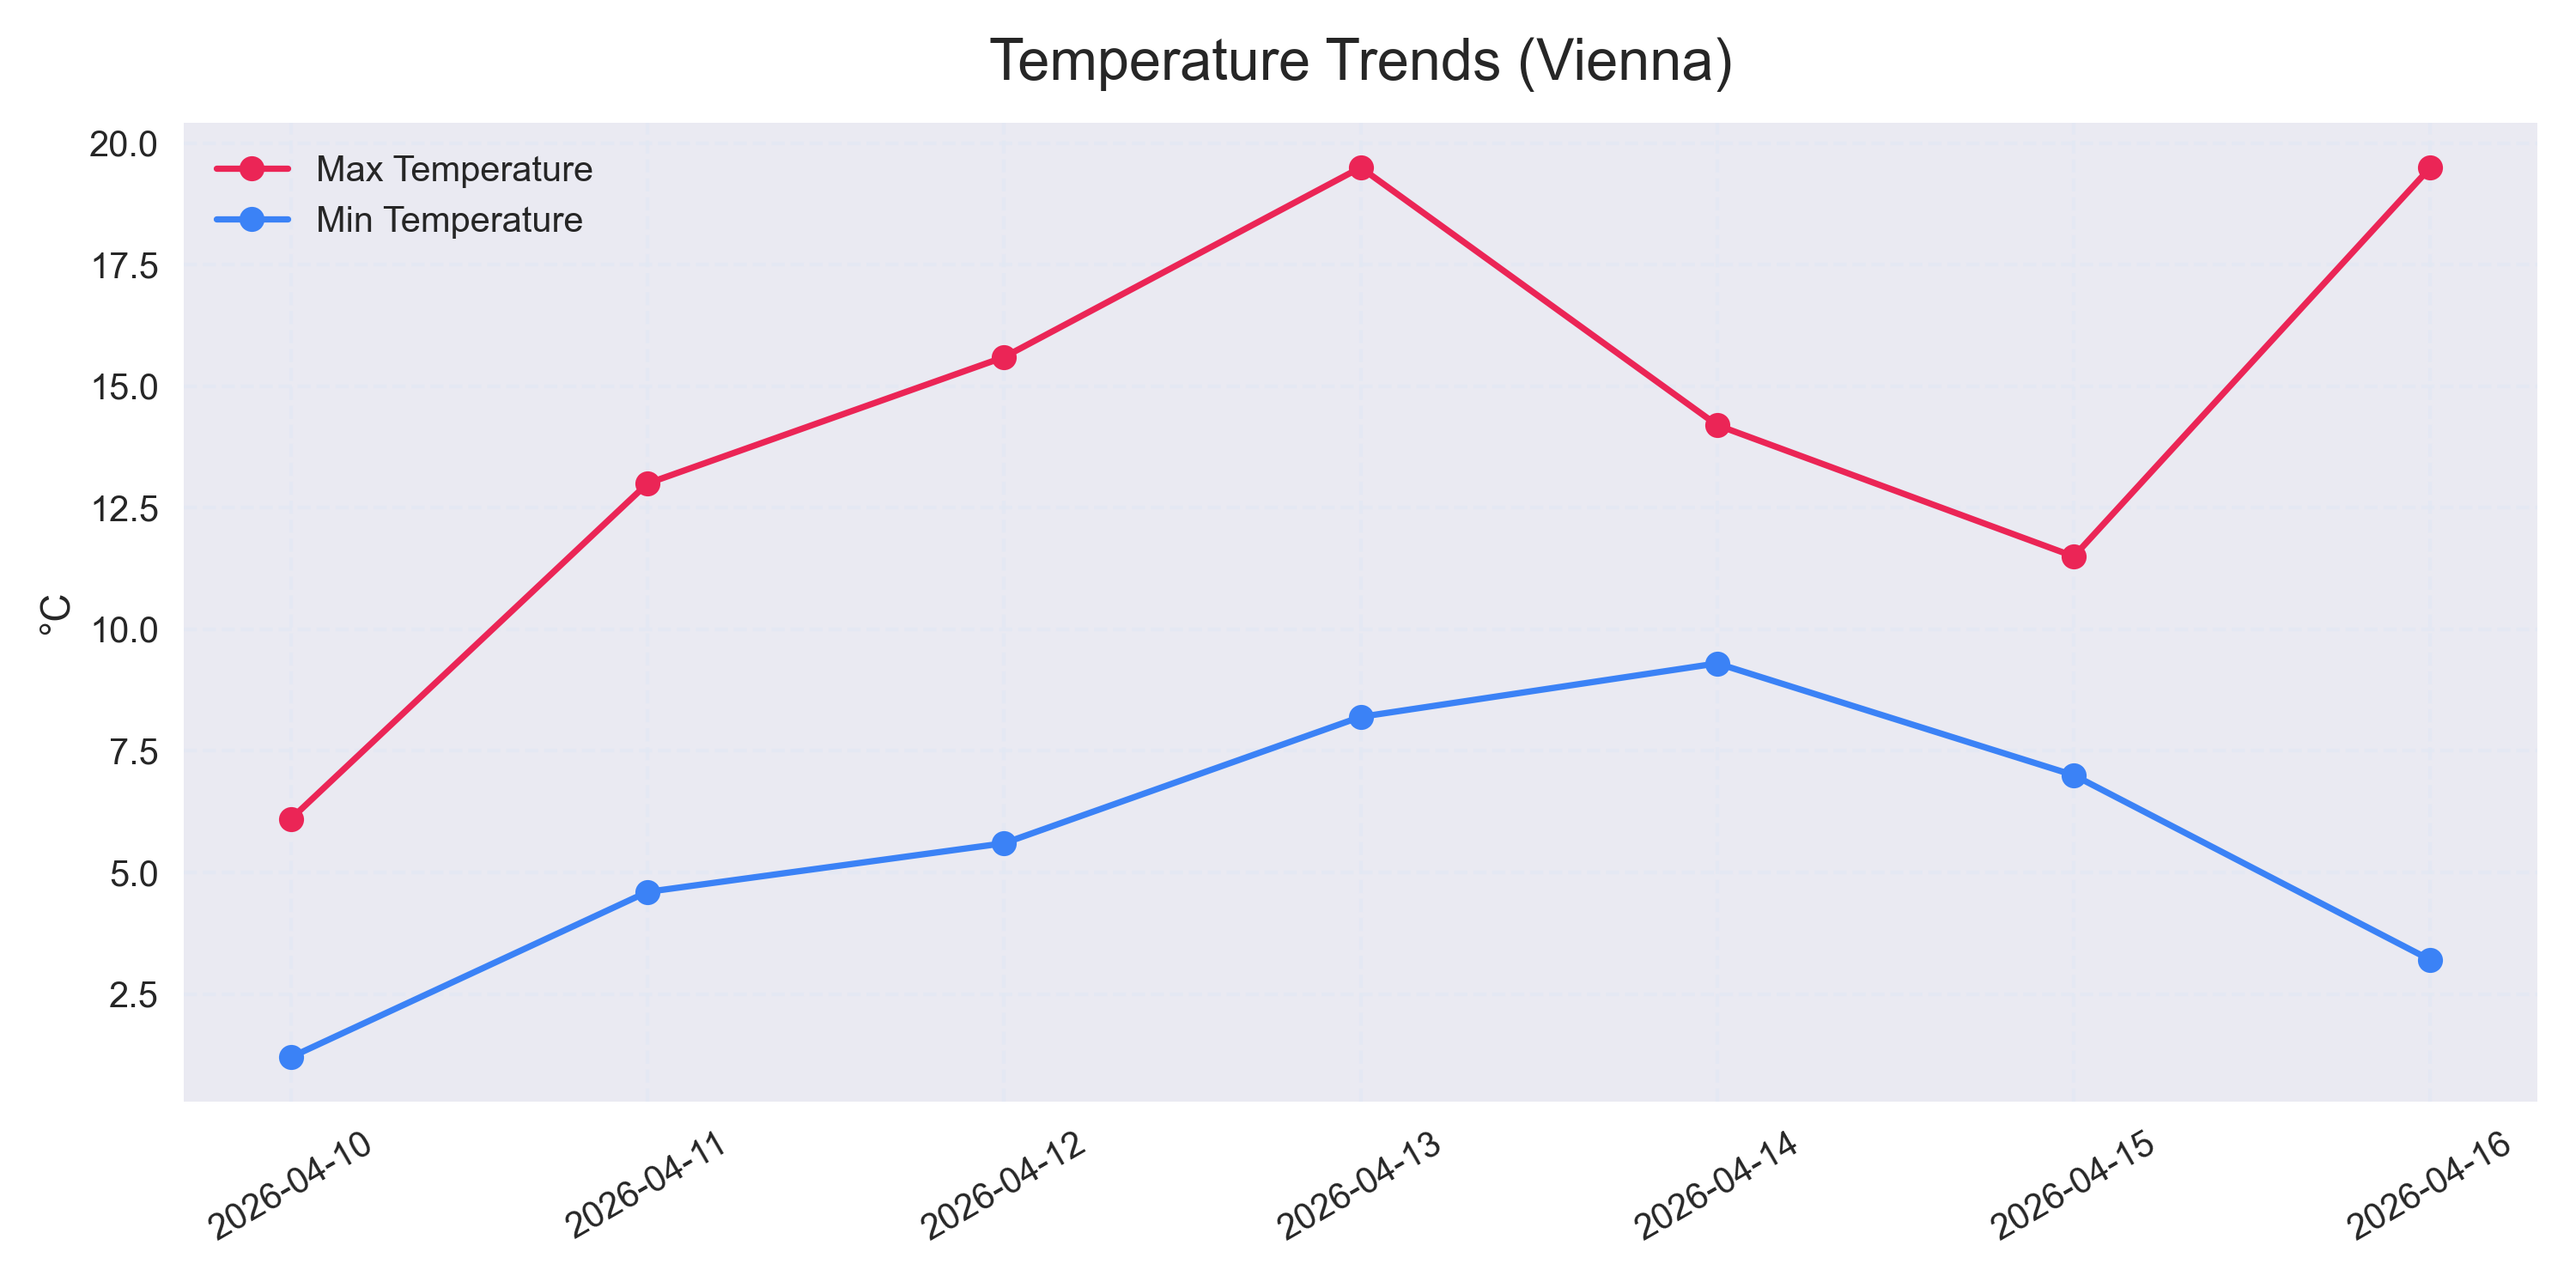
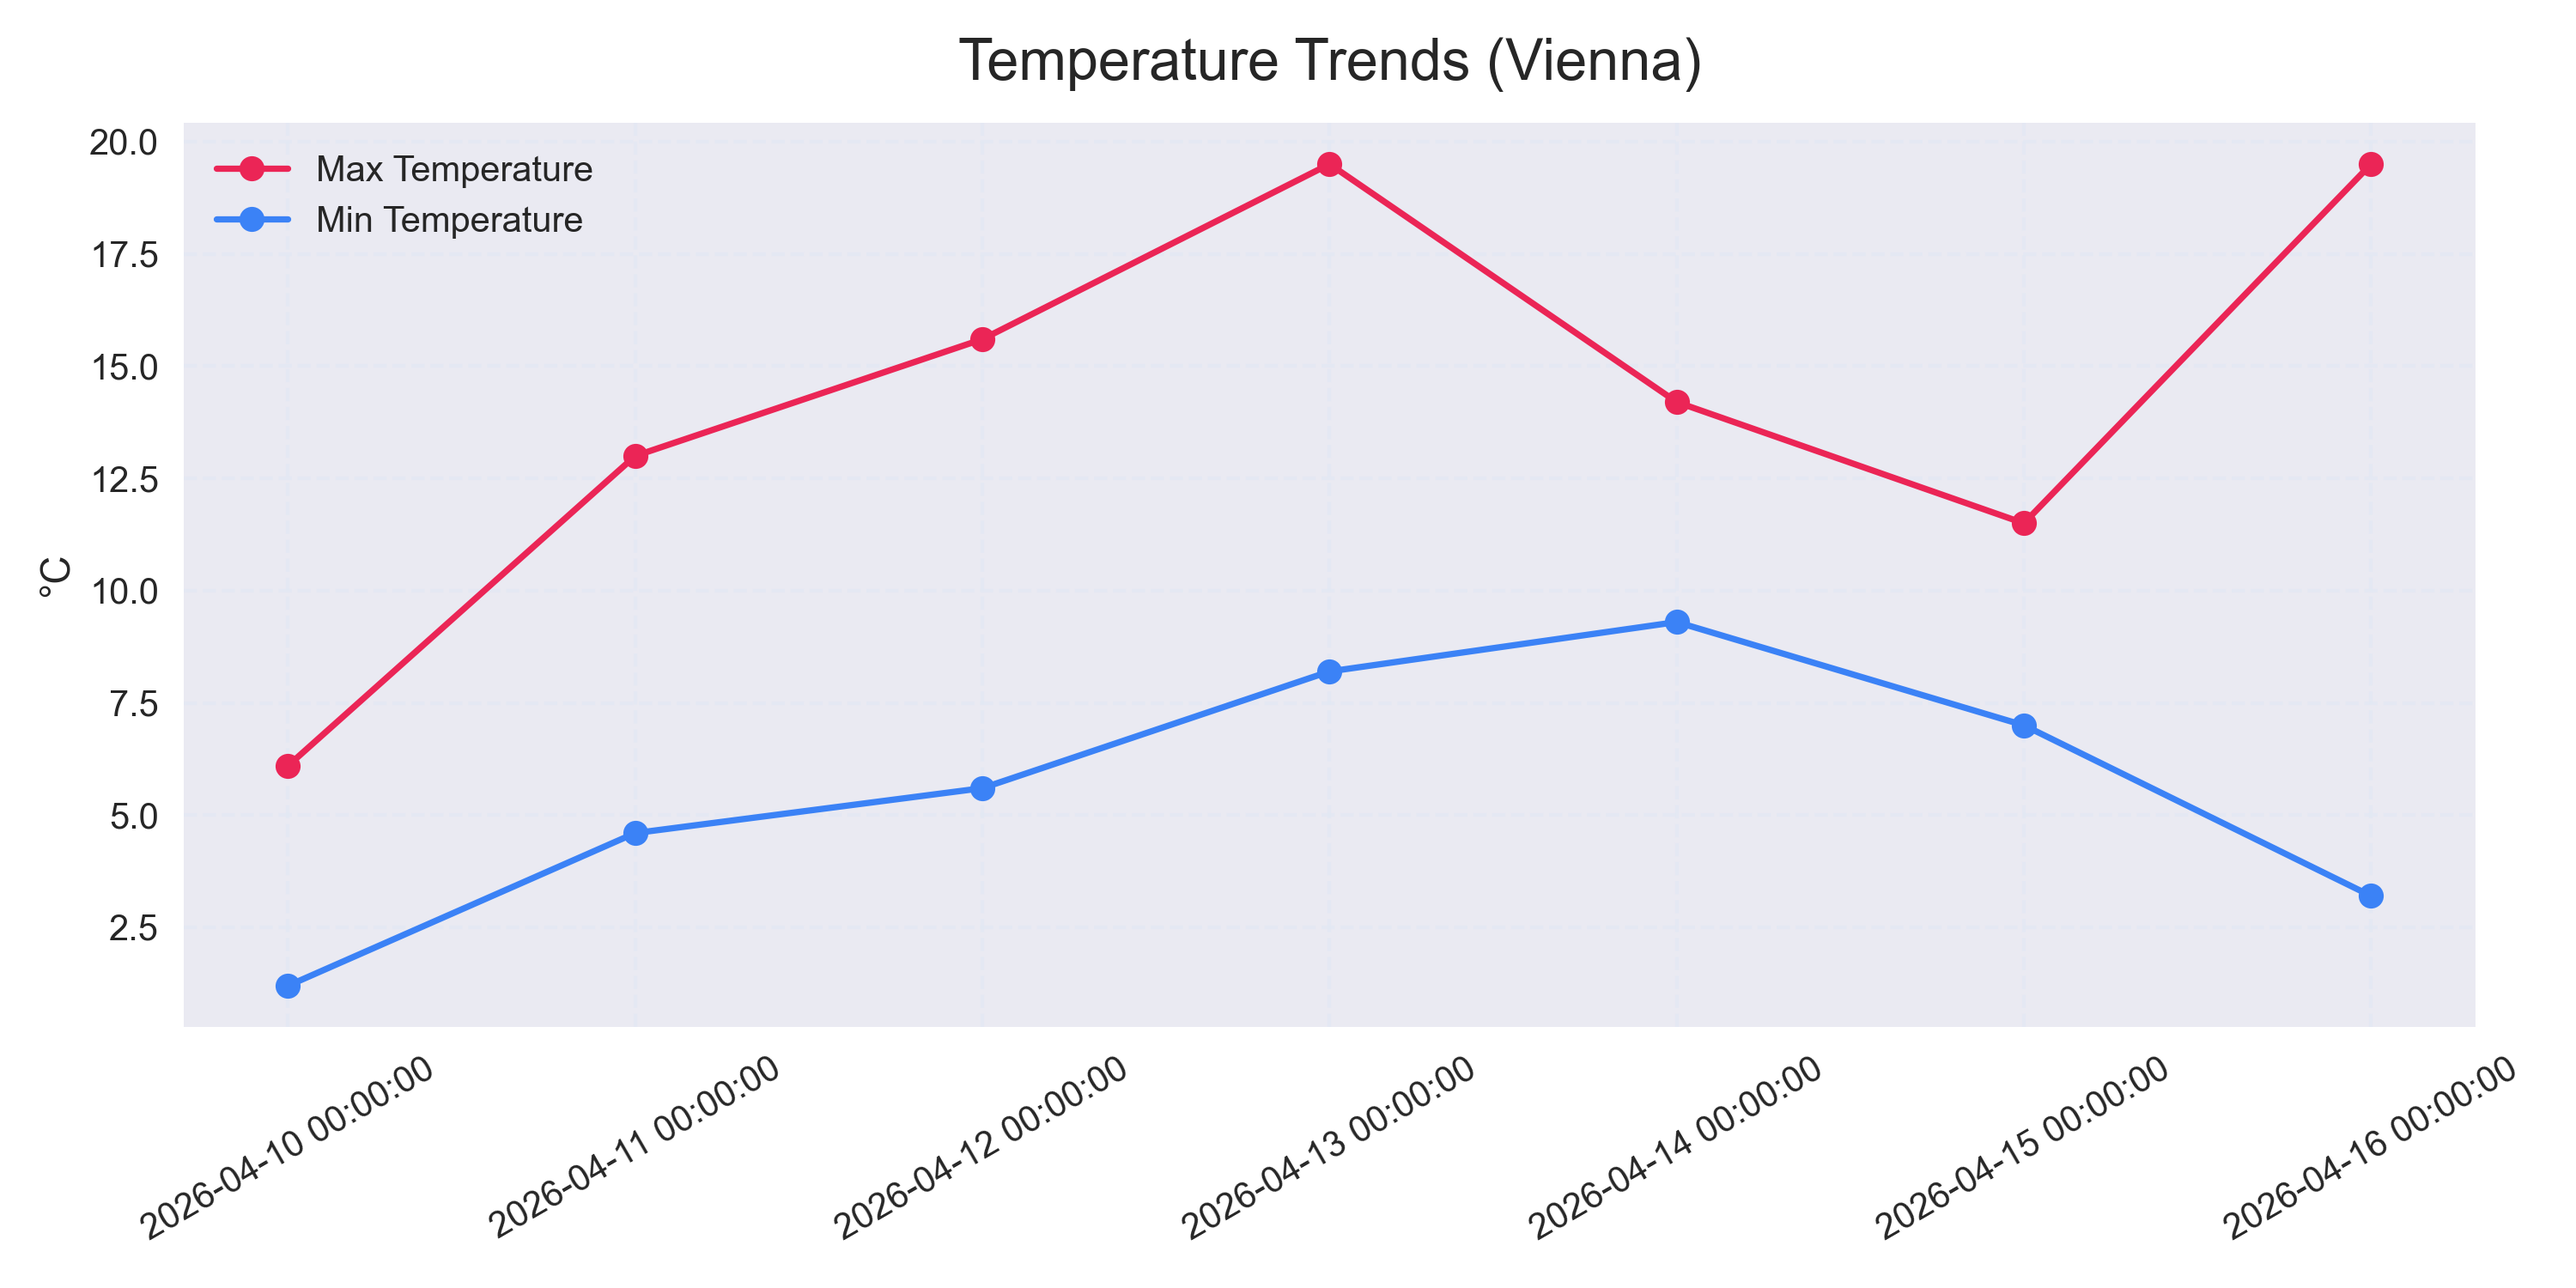
Refactor analysis functions to use DataFrame

diff --git a/main.py b/main.py
@@ -1,23 +1,24 @@
 from src.data_loader import fetch_weather_data, parse_weather_data
 from src.analysis import calculate_average_temp, find_hottest_day, find_coldest_day
-from src.visualization import plot_weather
+from src.visualization import plot_weather, plot_precipitation
 
 
 def main():
     data = fetch_weather_data()
-    dates, temp_max, temp_min, precipitation = parse_weather_data(data)
+    df = parse_weather_data(data)
 
-    avg_temp = round(calculate_average_temp(temp_max, temp_min), 1)
+    avg_temp = round(calculate_average_temp(df), 1)
 
-    hottest_day, hottest_temp = find_hottest_day(dates, temp_max)
-    coldest_day, coldest_temp = find_coldest_day(dates, temp_min)
+    hottest_day, hottest_temp = find_hottest_day(df)
+    coldest_day, coldest_temp = find_coldest_day(df)
 
     print(f"Average temperature: {avg_temp}°C")
     print(f"Hottest Day: {hottest_day} ({hottest_temp}°C)")
     print(f"Coldest Day: {coldest_day} ({coldest_temp}°C)")
 
-    plot_weather(dates, temp_max, temp_min)
+    plot_weather(df)
 
+    plot_precipitation(df)
 
 if __name__ == "__main__":
     main()

diff --git a/src/visualization.py b/src/visualization.py
@@ -4,16 +4,16 @@ from matplotlib.colors import ListedColormap
 
 plt.style.use("seaborn-v0_8")
 
-def plot_weather(dates, temp_max, temp_min):
+def plot_weather(df):
     _, ax = plt.subplots(figsize=(10, 5))
 
-    x = np.arange(len(dates))
+    x = np.arange(len(df["date"]))
 
     ax.set_xticks(x)
-    ax.set_xticklabels(dates, fontsize=10, rotation=30)
+    ax.set_xticklabels(df["date"], fontsize=10, rotation=30)
 
-    ax.plot(x, temp_max, label="Max Temperature", marker='o', color="#eb2556")
-    ax.plot(x, temp_min, label="Min Temperature", marker='o', color="#3b82f6")
+    ax.plot(x, df["temp_max"], label="Max Temperature", marker='o', color="#eb2556")
+    ax.plot(x, df["temp_min"], label="Min Temperature", marker='o', color="#3b82f6")
 
     ax.set_title("Temperature Trends (Vienna)", fontsize=16, pad=12)
     ax.set_ylabel("°C")

diff --git a/src/analysis.py b/src/analysis.py
@@ -1,15 +1,15 @@
 import numpy as np
 
-def calculate_average_temp(temp_max, temp_min):
-    avg_temp = (np.mean((np.array(temp_max))) + np.mean(np.array(temp_min))) / 2
+def calculate_average_temp(df):
+    avg_temp = (np.mean((np.array(df["temp_max"]))) + np.mean(np.array(df["temp_max"]))) / 2
     return avg_temp
 
 
-def find_hottest_day(dates, temp_max):
-    idx = np.argmax(temp_max)
-    return dates[idx], temp_max[idx]
+def find_hottest_day(df):
+    idx = np.argmax(df["temp_max"])
+    return df["date"][idx], df["temp_max"][idx]
 
 
-def find_coldest_day(dates, temp_min):
-    idx = np.argmin(temp_min)
-    return dates[idx], temp_min[idx]
+def find_coldest_day(df):
+    idx = np.argmin(df["temp_min"])
+    return df["date"][idx], df["temp_min"][idx]
